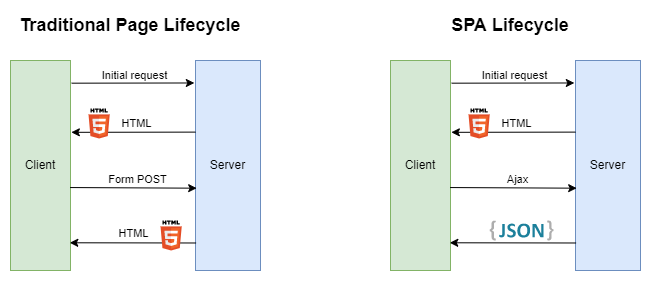
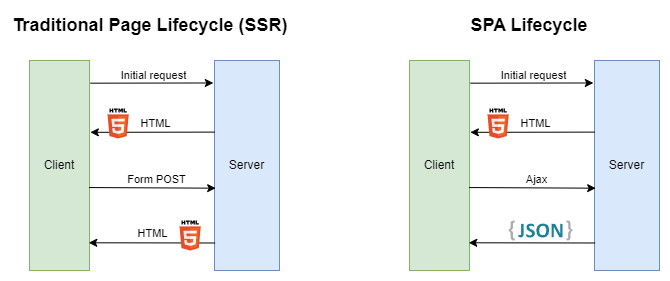
Update content.

diff --git a/README.md b/README.md
@@ -8,12 +8,12 @@
 
 # 1. What is this project
 
-- This is a project that shows the difference between Traditional Page Lifecycle and Spa (Simple Page Application) Lifecycle.
+- This is a project that shows the difference between Traditional Page Lifecycle (SSR) and Spa (Simple Page Application) Lifecycle.
 
 # 2. Choose Between Traditional Web Apps and Single Page Apps
 
 - There are two general approaches to building web applications today:
-  - Traditional web applications that perform most of the application logic on the server.
+  - Traditional web applications that perform most of the application logic on the server (Server Side Rendering (SSR)).
   - Single-page applications (SPAs) that perform most of the user interface logic in a web browser, communicating with the web server primarily using web APIs.
 - Use traditional web applications when:
   - Your application's client-side requirements are simple or even read-only.
